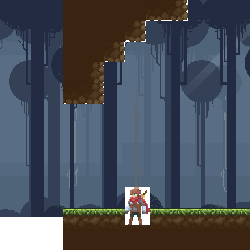
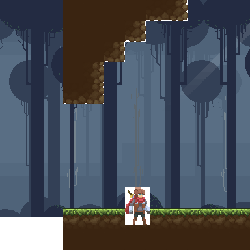
Added red flash when living entity is damaged.
Small changes to block geyser.

Added particle rotation option.

Changed region(s): [[0.504, 0.756, 0.616, 0.924]]

diff --git a/src/entity/EntityLiving.java b/src/entity/EntityLiving.java
@@ -2,11 +2,14 @@ package entity;
 
 import level.Level;
 import main.*;
+import org.w3c.dom.Text;
 import utils.Location;
+import utils.Texture;
 import utils.TextureAnimated;
 
 import java.awt.*;
 import java.awt.geom.AffineTransform;
+import java.awt.image.BufferedImage;
 
 public abstract class EntityLiving extends Entity {
 
@@ -20,6 +23,11 @@ public abstract class EntityLiving extends Entity {
     private double attackCounter;
     public double attackSearchTicks;
     public double ATTACK_SEARCH_COOLDOWN = 1.0;
+
+    public final Color tint = new Color(255, 85, 85);
+
+    private final double hurtCooldown = 0.25;
+    private double hurtTicks;
 
     public EntityLiving(EntityType type, Level level, Location loc) {
         super(type, level, loc);
@@ -48,6 +56,10 @@ public abstract class EntityLiving extends Entity {
 
         if (attackCounter < getAttackCooldown()) {
             attackCounter += 1 * dt;
+        }
+
+        if (getHurtTicks() > 0) {
+            hurtTicks -= 1 * dt;
         }
     }
 
@@ -164,17 +176,29 @@ public abstract class EntityLiving extends Entity {
     }
 
     public void damage(EntityLiving attacker, boolean playSound) {
+        if (getHurtTicks() > 0) {
+            return;
+        }
+
         setHealth(getHealth() - attacker.getDamage());
         if (getHitSound() != null && playSound) {
             getLevel().getManager().getEngine().getAudioBank().playSound(getHitSound());
         }
+
+        setHurtTicks(getHurtCooldown());
     }
 
     public void damage(int damage, boolean playSound) {
+        if (getHurtTicks() > 0) {
+            return;
+        }
+
         setHealth(getHealth() - damage);
         if (getHitSound() != null && playSound) {
             getLevel().getManager().getEngine().getAudioBank().playSound(getHitSound());
         }
+
+        setHurtTicks(getHurtCooldown());
     }
 
     public void setAttackCooldown(double cooldown) {
@@ -235,5 +259,58 @@ public abstract class EntityLiving extends Entity {
         }
 
         return super.isActive();
+    }
+
+    @Override
+    public Texture getActiveFrame() {
+        if (getHurtTicks() < getHurtCooldown()) {
+            Texture texture = getIdleFrame();
+            int width = texture.getWidth();
+            int height = texture.getHeight();
+
+            // Create a new BufferedImage with the same dimensions and type as the original
+            BufferedImage tintedImage = new BufferedImage(width, height, BufferedImage.TYPE_INT_ARGB);
+
+            // Manipulate pixels to apply tint
+            for (int y = 0; y < height; y++) {
+                for (int x = 0; x < width; x++) {
+                    // Get RGB color of the pixel
+                    int rgb = tintedImage.getRGB(x, y);
+
+                    // Apply tinting by combining the pixel's color with the tint color
+                    int red = (rgb >> 16) & 0xFF; // Red component
+                    int green = (rgb >> 8) & 0xFF; // Green component
+                    int blue = rgb & 0xFF; // Blue component
+
+                    // Tint calculation
+                    red = (int) (red * tint.getRed() / 255.0);
+                    green = (int) (green * tint.getGreen() / 255.0);
+                    blue = (int) (blue * tint.getBlue() / 255.0);
+
+                    // Update RGB value with tint
+                    rgb = (rgb & 0xFF000000) | (red << 16) | (green << 8) | blue;
+
+                    // Set the updated pixel color in tintedImage
+                    tintedImage.setRGB(x, y, rgb);
+                }
+            }
+
+            //System.out.println("returning tinted img");
+            return new Texture(tintedImage);
+        }
+
+        return getIdleFrame();
+    }
+
+    public double getHurtTicks() {
+        return hurtTicks;
+    }
+
+    public void setHurtTicks(double hurtTicks) {
+        this.hurtTicks = hurtTicks;
+    }
+
+    public double getHurtCooldown() {
+        return hurtCooldown;
     }
 }

diff --git a/src/level/Particle.java b/src/level/Particle.java
@@ -7,6 +7,8 @@ import utils.Location;
 import utils.Texture;
 import utils.TextureAnimated;
 
+import java.awt.*;
+import java.awt.geom.AffineTransform;
 import java.awt.image.BufferedImage;
 import java.util.Random;
 
@@ -69,8 +71,7 @@ public class Particle {
         this.loc.setY(loc.getY() - ((image.getHeight() * scale) / 2));
 
     }
-
-  public void update(double dt){
+    public void update(double dt){
         if (!isActive) {
             return;
         }
@@ -97,8 +98,12 @@ public class Particle {
         }
 
 
-          this.loc.setX(loc.getX() + (getVelX() * dt));
-          this.loc.setY(loc.getY() + (getVelY() * dt));
+        if (getType() == ParticleTypes.SMOKE) {
+            rotation += 1.5 * dt;
+        }
+
+        this.loc.setX(loc.getX() + (getVelX() * dt));
+        this.loc.setY(loc.getY() + (getVelY() * dt));
     }
 
     public void render(Camera cam){
@@ -108,27 +113,32 @@ public class Particle {
 
         image.setFlipped(isFlipped);
 
-        if (type.isFadeOut()) {
-            if (image instanceof TextureAnimated textA) {
-                BufferedImage img = textA.getFrame((int)ticksAlive);
-                if (img == null) {
-                    return;
-                }
-                cam.game.drawImage(img, camLocX, camLocY, size, size, (float) opacity);
-            } else {
-                cam.game.drawImage(image.getImage(), camLocX, camLocY, size, size, (float) opacity);
-            }
-        } else {
-            if (image instanceof TextureAnimated textA) {
-                BufferedImage img = textA.getFrame((int)ticksAlive);
-                if (img == null) {
-                    return;
-                }
-                cam.game.drawImage(img, camLocX, camLocY, size, size);
-            } else {
-                cam.game.drawImage(image.getImage(), camLocX, camLocY, size, size);
-            }
+        BufferedImage img = image.getImage();
+        if (image instanceof TextureAnimated textA) {
+            img = textA.getFrame((int)ticksAlive);
         }
+
+        if (img == null) {
+            return;
+        }
+
+        Graphics2D g2d = cam.game.mGraphics;
+        AffineTransform oldTrans = g2d.getTransform();
+        g2d.translate(camLocX, camLocY);
+        if (rotation != 0) {
+            g2d.rotate(rotation, size / 2, size / 2);
+        }
+        //g2d.scale(scale, scale);
+        //g2d.drawImage(img, 0, 0, null);
+
+        if (type.isFadeOut()) {
+            drawImage(g2d, img, (float) opacity);
+            //cam.game.drawImage(img, camLocX, camLocY, size, size, (float) opacity);
+        } else {
+            drawImage(g2d, img, 1f);
+            //cam.game.drawImage(img, camLocX, camLocY, size, size);
+        }
+        g2d.setTransform(oldTrans);
     }
 
     public ParticleTypes getType() {
@@ -178,5 +188,22 @@ public class Particle {
 
     public Location getLocation() {
         return loc;
+    }
+
+
+    private void drawImage(Graphics2D g2d, BufferedImage img, float opacity) {
+        if (opacity < 0) {
+            opacity = 0;
+        }
+
+        if (opacity < 1) {
+            AlphaComposite ac = AlphaComposite.getInstance(AlphaComposite.SRC_OVER, opacity);
+            g2d.setComposite(ac);
+            g2d.drawImage(img, 0, 0, (int)size, (int)size, null,null);
+            ac = AlphaComposite.getInstance(AlphaComposite.SRC_OVER, 1.0f);
+            g2d.setComposite(ac);
+        } else {
+            g2d.drawImage(img, 0, 0, (int)size, (int)size, null,null);
+        }
     }
 }

diff --git a/src/entity/EnemyPlant.java b/src/entity/EnemyPlant.java
@@ -8,6 +8,7 @@ import utils.Texture;
 
 import java.awt.*;
 import java.awt.geom.AffineTransform;
+import java.awt.image.BufferedImage;
 
 public class EnemyPlant extends Enemy {
 
@@ -73,6 +74,46 @@ public class EnemyPlant extends Enemy {
         }
 
         texture.setFlipped(isFlipped());
+
+        if (getHurtTicks() > 0) {
+            int width = texture.getWidth();
+            int height = texture.getHeight();
+
+            // Create a new BufferedImage with the same dimensions and type as the original
+            BufferedImage tintedImage = new BufferedImage(width, height, BufferedImage.TYPE_INT_ARGB);
+            Graphics2D g = tintedImage.createGraphics();
+
+            // Draw the original image onto the tintedImage
+            g.drawImage(texture.getImage(), 0, 0, null);
+            g.dispose();
+
+            // Manipulate pixels to apply tint
+            for (int y = 0; y < height; y++) {
+                for (int x = 0; x < width; x++) {
+                    // Get RGB color of the pixel
+                    int rgb = tintedImage.getRGB(x, y);
+
+                    // Apply tinting by combining the pixel's color with the tint color
+                    int red = (rgb >> 16) & 0xFF; // Red component
+                    int green = (rgb >> 8) & 0xFF; // Green component
+                    int blue = rgb & 0xFF; // Blue component
+
+                    // Tint calculation
+                    red = (int) (red * tint.getRed() / 255.0);
+                    green = (int) (green * tint.getGreen() / 255.0);
+                    blue = (int) (blue * tint.getBlue() / 255.0);
+
+                    // Update RGB value with tint
+                    rgb = (rgb & 0xFF000000) | (red << 16) | (green << 8) | blue;
+
+                    // Set the updated pixel color in tintedImage
+                    tintedImage.setRGB(x, y, rgb);
+                }
+            }
+
+            //System.out.println("returning tinted img");
+            return new Texture(tintedImage);
+        }
 
         return texture;
     }

diff --git a/src/level/ParticleTypes.java b/src/level/ParticleTypes.java
@@ -9,10 +9,10 @@ public enum ParticleTypes {
     LEAF("resources/images/particles/leaf.png", 3,0.25, 0.5, 32, true, 0, 1),
     IMPACT("resources/images/particles/impact.png", 0.15, 1.5, false),
     DIRT("resources/images/particles/dirt.png", 0.75, 0.25, false),
-    GROUND_CRACKED_0("resources/images/particles/ground_cracked_0.png", 0.75, 1,1, 0, false, -1, -1),
-    GROUND_CRACKED_1("resources/images/particles/ground_cracked_1.png", 0.75, 1,1, 0, false, 1, -1),
-    GROUND_CRACKED_2("resources/images/particles/ground_cracked_2.png", 0.75, 1,1, 0, false, -1, 1),
-    GROUND_CRACKED_3("resources/images/particles/ground_cracked_3.png", 0.75, 1,1, 0, false, 1, 1);
+    GROUND_CRACKED_0("resources/images/particles/ground_cracked_0.png", 0.75, 1,1, 0, false, -1, 0),
+    GROUND_CRACKED_1("resources/images/particles/ground_cracked_1.png", 0.75, 1,1, 0, false, 1, 0),
+    GROUND_CRACKED_2("resources/images/particles/ground_cracked_2.png", 0.75, 1,1, 0, false, -1, 0),
+    GROUND_CRACKED_3("resources/images/particles/ground_cracked_3.png", 0.75, 1,1, 0, false, 1, 0);
 
     private final String filePath;
     private final double timeAlive;

diff --git a/src/block/BlockGeyser.java b/src/block/BlockGeyser.java
@@ -34,18 +34,17 @@ public class BlockGeyser extends BlockActive {
         this.rand = new Random();
         this.triggerBox = new CollisionBox(getCollisionBox().getLocation().getX() - ((double)Game.BLOCK_SIZE / 2), getCollisionBox().getLocation().getY() - (Game.BLOCK_SIZE * 4),
                 getCollisionBox().getWidth() + Game.BLOCK_SIZE, getCollisionBox().getHeight() + (Game.BLOCK_SIZE * 3));
+        this.eruptTicks = rand.nextInt(0, (int)eruptRate);
     }
 
     @Override
     public void update(double dt) {
-        if (eruptingCounter <= 0) {
             if (particleTicks < particleRate) {
                 particleTicks += 1 * dt;
             } else {
                 getLevel().spawnParticle(ParticleTypes.SMOKE, getCenterX(), getLocation().getY() + 16);
                 particleTicks = 0;
             }
-        }
 
         if (eruptTicks < eruptRate) {
             eruptTicks += 1 * dt;
